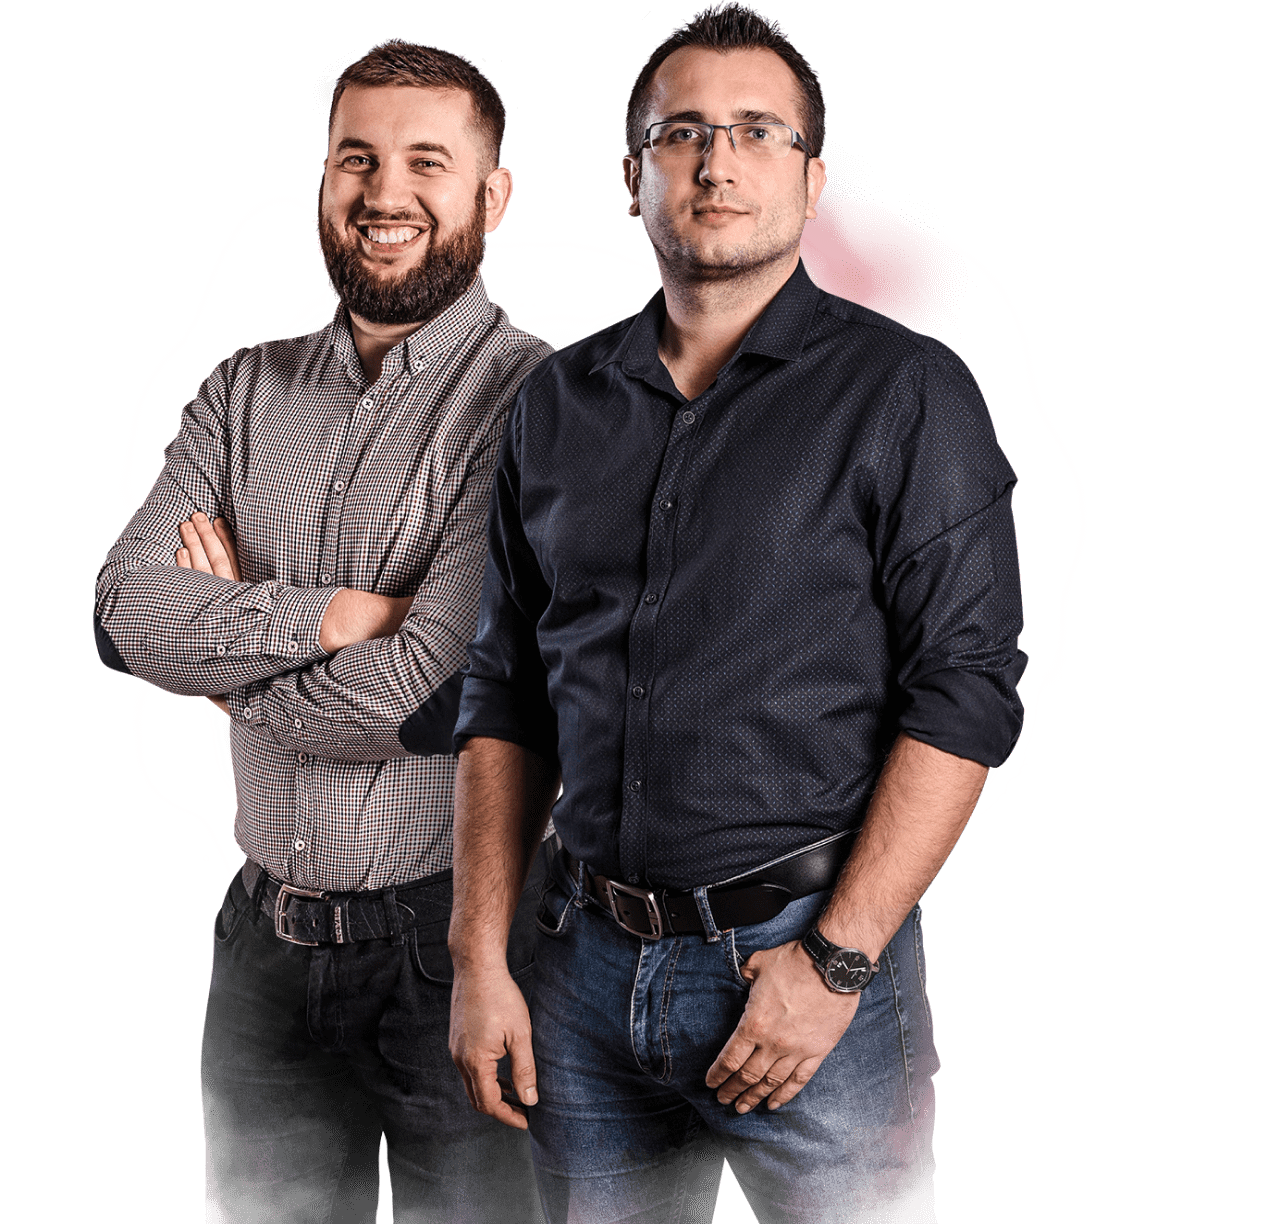
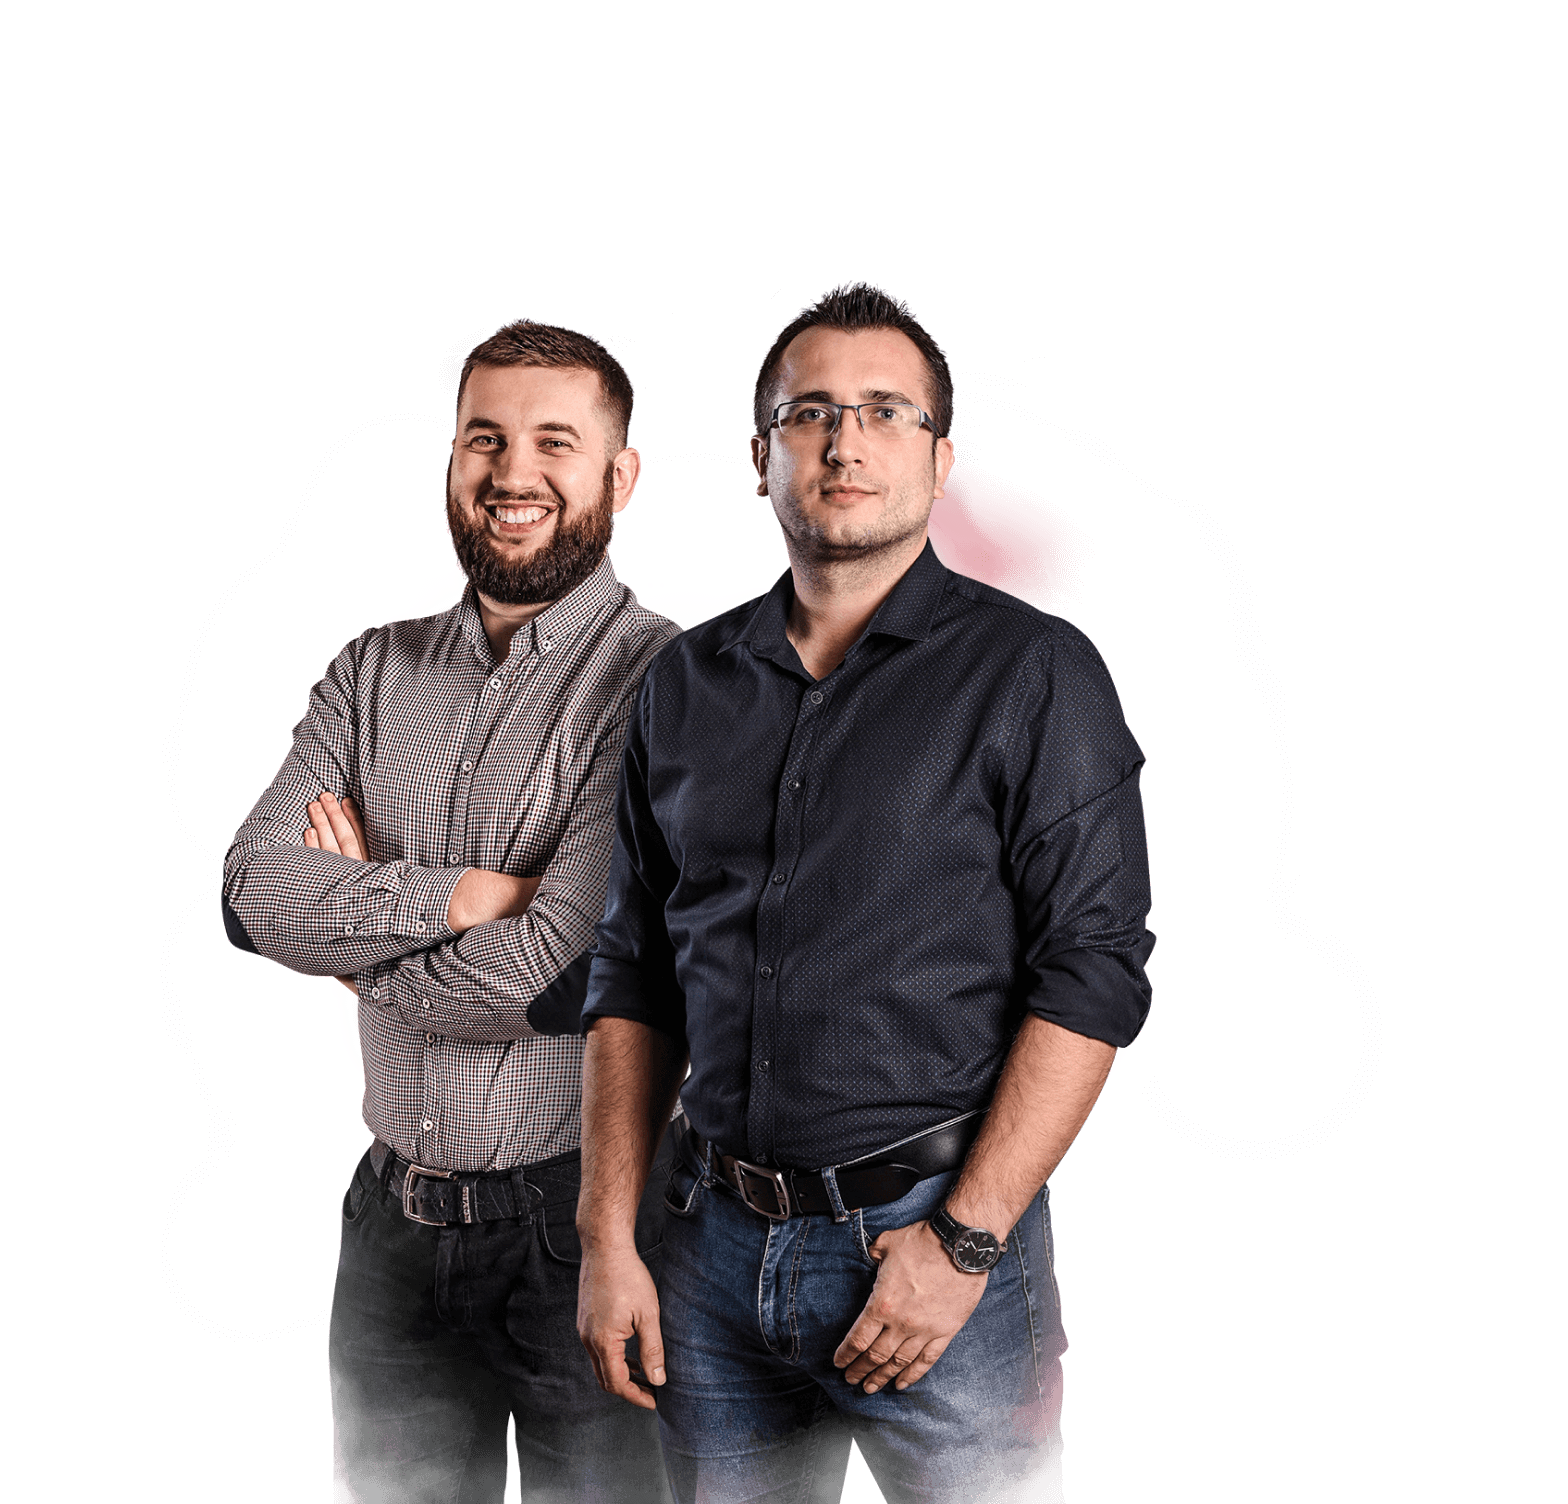
Update team

diff --git a/assets/components/team/team.scss b/assets/components/team/team.scss
@@ -78,37 +78,27 @@ $MAX-WIDTH_HD : 1728px;
         left: 0;
         width: 100%;
         height : auto;
-        bottom : -50px;
+        transform: translateY(-50px);
+        bottom : 0px;
         display: flex;
         align-items: flex-end;
         justify-content: center;
         z-index: 3;
         opacity: 0;
         transition: all .4s;
-        animation: imageFirst 1s ease 0.6s forwards;
+        animation: imageFirst 1s .5s forwards;
     }
 
     &__image-container-team-first-image{
-        width: 249px;
+        width: 100%;
         height : auto;
 
         @include sm{
-            width: 406px;
+            max-width: 499px;
         }
 
         @include md{
-            width: 550px;
-
-        }
-
-        @include lg{
-            width: 560px;
-
-        }
-
-        @include hd{
-            width: 80%;
-
+            max-width: 100%;
         }
     }
 
@@ -132,14 +122,15 @@ $MAX-WIDTH_HD : 1728px;
         left: 0;
         width: 100%;
         height : auto;
-        bottom : 10px;
+        transform: translateY(10px);
+        bottom : 0px;
         display: flex;
         align-items: flex-end;
         justify-content: center;
         z-index: 2;
         opacity : 0;
         transition: all .4s;
-        animation: imageSecond 1s ease 0.6s forwards;
+        animation: imageSecond 1s .8s forwards;
 
     }
 
@@ -163,14 +154,15 @@ $MAX-WIDTH_HD : 1728px;
         left: 0;
         width: 100%;
         height : auto;
-        bottom : 30px;
+        transform: translateY(30px);
+        bottom : 0px;
         display: flex;
         align-items: flex-end;
         justify-content: center;
         z-index: 1;
         opacity : 0;
         transition: all .4s;
-        animation: imageThird 1s ease 0.8s forwards;
+        animation: imageThird 1s 1s forwards;
 
     }
 
@@ -185,12 +177,12 @@ $MAX-WIDTH_HD : 1728px;
             height: 479px;
             margin-top: 0px;
             bottom: 0;
+            position: absolute;
         }
 
         @include md{
             right : 0%;
             bottom: 0;
-            position: absolute;
             width: 60%;
         }
 
@@ -213,35 +205,41 @@ $MAX-WIDTH_HD : 1728px;
 @keyframes imageFirst {
     0%{
         opacity: 0;
-        bottom: -50px;
+        transform: translateY(50px);
+        //bottom: -50px;
     }
 
     100%{
         opacity: 1;
-        bottom: 0;
+        transform: translateY(0);
+        //bottom: 0;
     }
 }
 
 @keyframes imageSecond {
     0%{
         opacity: 0;
-        bottom: 10px;
+        transform: translateY(-10px);
+        //bottom: 10px;
     }
 
     100%{
         opacity: 1;
-        bottom: 5px;
+        transform: translateY(0);
+        //bottom: 5px;
     }
 }
 
 @keyframes imageThird {
     0%{
         opacity: 0;
-        bottom: 30px;
+        transform: translateY(-30px);
+        //bottom: 30px;
     }
 
     100%{
         opacity: 1;
-        bottom: 20px;
+        transform: translateY(0);
+        //bottom: 20px;
     }
 }

diff --git a/assets/components/teamAll/teamAll.scss b/assets/components/teamAll/teamAll.scss
@@ -338,10 +338,13 @@
     }
 
     &__sharing-inner-items-content {
-        display         : flex;
-        justify-content : space-between;
-        margin-left     : 2rem;
-        margin-right    : 2rem;
+
+        @include sm{
+            display         : flex;
+            justify-content : space-between;
+            margin-left     : 2rem;
+            margin-right    : 2rem;
+        }
 
         @include md {
             margin-left  : 0rem;
